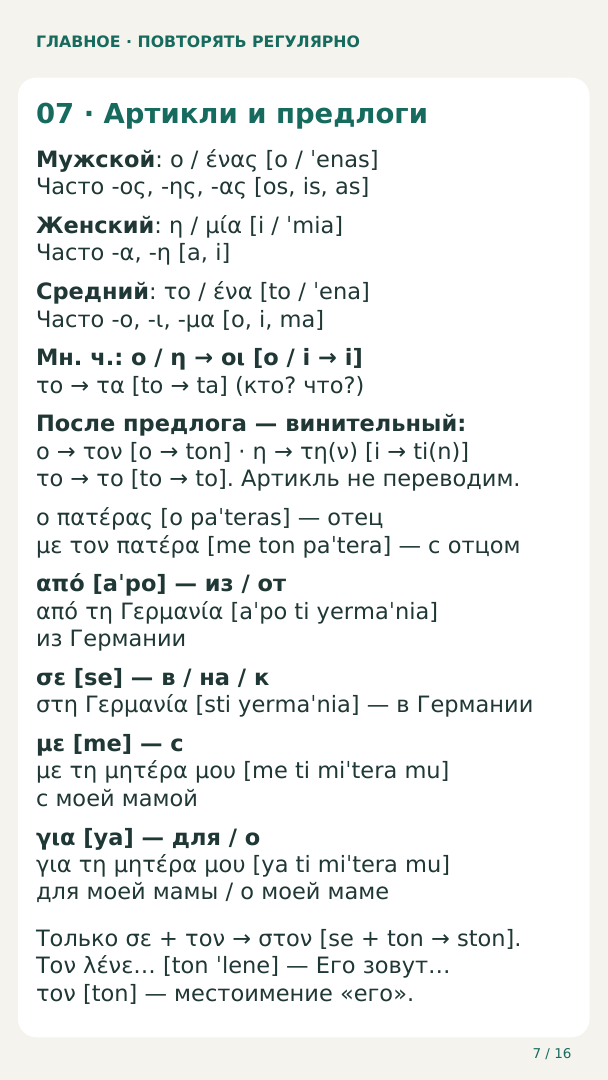
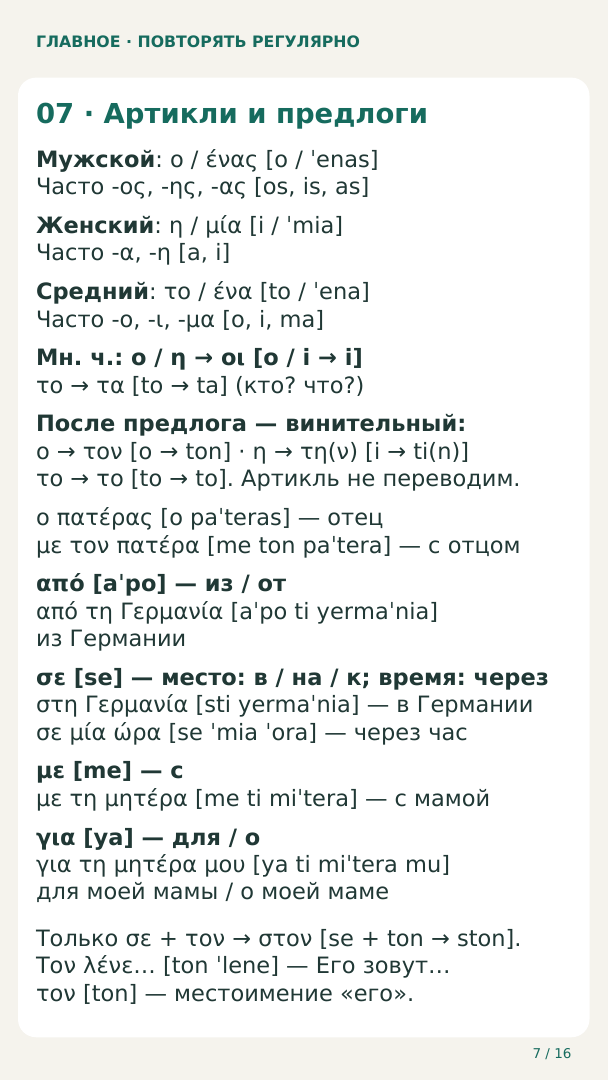
Add future time interval meaning of se to preposition card

diff --git a/docs/reference/grammar/prepositions-accusative.md b/docs/reference/grammar/prepositions-accusative.md
@@ -1,6 +1,6 @@
 # Предлоги с винительным: από, σε, με, για
 
-**Статус:** проверено по материалам уроков 06–07
+**Статус:** проверено по материалам уроков 06–07 и текущего урока 13
 
 **Связанные уроки:** [Урок 06 — числа 11–100, анкета и предлоги](../../lessons/lesson-06-numbers-and-prepositions.md),
 [урок 07 — аудитория, учёба и артикли](../../lessons/lesson-07-classroom-studies-and-articles.md)
@@ -17,13 +17,31 @@
 | Предлог | Значение | Пример |
 |---|---|---|
 | `από` `[aˈpo]` | из, от (направление от) | `Είμαι από τη Ρωσία, από τη Μόσχα.` `[ˈime aˈpo ti roˈsia, aˈpo ti ˈmosha]` |
-| `σε` `[se]` | в, на, к (место или направление к) | `Μένω στη Μόσχα.` `[ˈmeno sti ˈmosha]`, `Πηγαίνω στο πανεπιστήμιο.` `[piˈyeno sto panepiˈstimio]` |
+| `σε` `[se]` | в, на, к — место; через — промежуток до события | `Μένω στη Μόσχα.` `[ˈmeno sti ˈmosha]` — живу в Москве; `σε μία ώρα` `[se ˈmia ˈora]` — через час |
 | `με` `[me]` | с (совместность или инструмент) | `Μένω με την οικογένειά μου.` `[ˈmeno me tin ikoˈyenia mu]` |
 | `για` `[ya]` | для; о | `Κάνω ένα δώρο για τη μητέρα μου.` `[ˈkano ˈena ˈðoro ya ti miˈtera mu]` |
 
 Только `σε` `[se]` сливается с артиклем (`στον / στην / στη / στο`
 `[ston / stin / sti / sto]`); `από`, `με` и `για` пишутся отдельно:
 `με την οικογένεια` `[me tin ikoˈyenia]`, а не слитно.
+
+## `σε` `[se]`: место или время { #se-time }
+
+У одного предлога несколько значений. Смотри не только на сам предлог,
+но и на то, что он вводит:
+
+- **Место / направление → в, на, к:** `στη Γερμανία` `[sti yermaˈnia]` — в Германии.
+- **Промежуток от сейчас до события → через:** `σε μία ώρα` `[se ˈmia ˈora]` — через час;
+  `σε μισή ώρα` `[se miˈsi ˈora]` — через полчаса;
+  `σε δύο μέρες` `[se ˈðio ˈmeres]` — через два дня.
+
+Не путай длительность ожидания с показанием часов:
+`στις τρεις` `[stis tris]` — **в три**, конкретное время;
+`σε μισή ώρα` `[se miˈsi ˈora]` — **через полчаса**, отсчёт от сейчас.
+Не переводи предлог всегда одним русским словом «в».
+[Разбор времени в уроке 13](../../lessons/lesson-13-current.md#when) ·
+[Правила часов и календаря](time-and-calendar.md) ·
+[Сквозная карточка 7](../../assets/mobile/core/card-7.png).
 
 ## `με` `[me]` — «с»
 
@@ -82,3 +100,5 @@
   слайд 9 (авторский конспект с русскими пояснениями).
 - [Материалы урока 07](../../lessons/lesson-07-classroom-studies-and-articles.md#lesson-07-materials),
   слайд 6 (повтор правила) и домашнее упражнение 15, пункты 9–15.
+- [Урок 13](../../lessons/lesson-13-current.md#when): файл о времени,
+  примеры промежутков с предлогом; слова и формы уже доступны в [тренажёре времени](../../training/vocabulary.md?topic=time).

diff --git a/docs/memory/core.md b/docs/memory/core.md
@@ -25,7 +25,7 @@ A4: читай блоки **слева направо, затем вниз**. Н
 | 4. Знакомство | Имя, происхождение, национальность, «как дела?» | [Знакомство](../reference/greetings-and-introductions.md) |
 | 5. Жизнь, учёба и языки | Где живёшь, где работаешь, что изучаешь, на каком языке говоришь | [Урок 04](../lessons/lesson-04-current.md), [урок 06](../lessons/lesson-06-current.md) |
 | 6. Фразы на каждый день | Приветствия, прощания, спасибо и пожалуйста | [Фразы общения](../reference/greetings-and-introductions.md) |
-| 7. Артикли и предлоги | Род; из / от, в / на / к, с, для / о; артикли после предлогов | [Артикли](../reference/grammar/nominative-articles.md), [предлоги](../reference/grammar/prepositions-accusative.md) |
+| 7. Артикли и предлоги | Род; из / от, в / на / к, через, с, для / о; артикли после предлогов | [Артикли](../reference/grammar/nominative-articles.md), [предлоги](../reference/grammar/prepositions-accusative.md) |
 | [8. Вопросительные слова](../assets/mobile/core/card-8.png) | Кто, что, где / куда, откуда, как, когда, почему, сколько; с кем; отличие от артикля | [Вопросы и полные ответы](questions-answers.md), [вопросы о времени и месте](../lessons/lesson-08-current.md#questions) |
 | 9. Числа | 0–12, десятки до 100 и составление остальных чисел | [Числительные](../reference/numbers-11-100.md) |
 | 10. Как хорошо и сколько | Прекрасно / хорошо / так себе; немного / совсем немного / совсем не | [Оттенки и отрицание](../lessons/lesson-06-current.md#language-level) |

diff --git a/extracted/lessons/lesson-13-source-audit.md b/extracted/lessons/lesson-13-source-audit.md
@@ -83,3 +83,7 @@ SHA256 фото: `36a7accea4b62779a7e1aa26e16a8a101d081de7682ee90d2d6eec4e234107
 Все темы сохранены, шрифт прежний, полный набор помещается на пяти A4.
 Широкие нижние блоки используют строковое оформление тех же данных без
 дублирования текста. Проверка последовательности теперь встроена в сборщик.
+Значение σε «через» из lesson-13-current#when и карточки урока 1 добавлено
+также в сквозную 7 и prepositions-accusative#se-time: место и промежуток времени
+различаются явно. Пример «через час»; «через полчаса» уже в сквозной 15 и теме time.
+Словарь и прогресс тренажёра не меняются. Число карточек и страниц прежнее.
